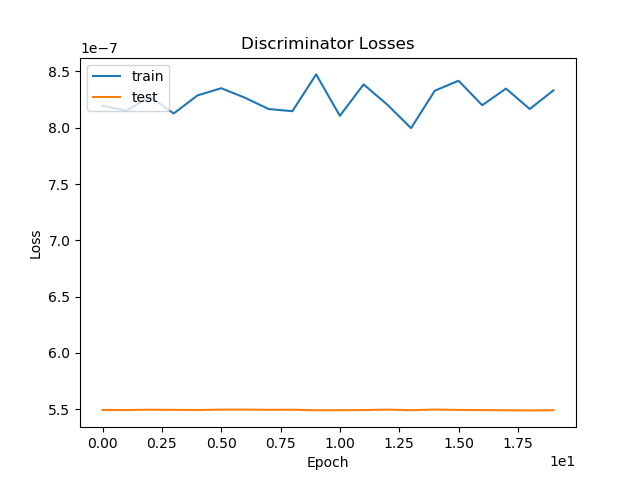
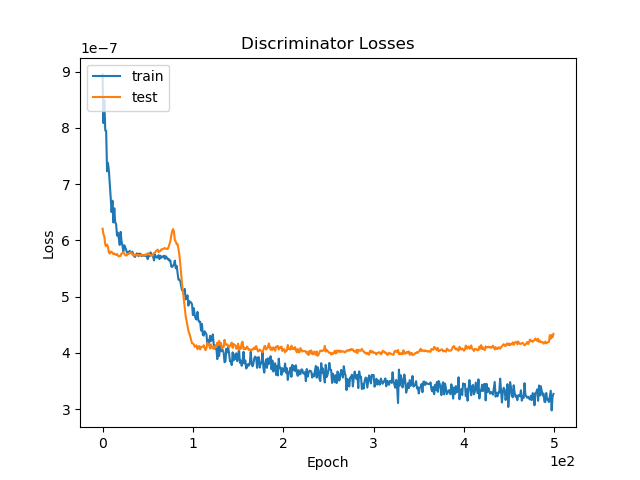
Updated code

diff --git a/Adam_tZq/Adam_tZq.py b/Adam_tZq/Adam_tZq.py
@@ -51,14 +51,14 @@ class neuralNetworkEnvironment(object):
     def __init__(self, changing_parameter, epoch, Adam):
         #At the moment not may variables are passed to the class. You might want to change this
         #A list of more general settings
-        self.variables = np.array(["m_b_jf" ,"eta_jf", "eta_jr", "pT_Z", "DeltaRMin", "q_lW", "pT_jr", "pT_jf", "eta_lW", "eta_Z", "pT_lW", "pT_W"]) #BAD!: "m_top", "mT_W"
+        self.variables = np.array([ "mT_W", "m_b_jf" ,"eta_jf", "eta_jr", "pT_Z", "DeltaRMin", "q_lW", "pT_jr", "pT_jf", "eta_lW", "eta_Z", "pT_lW", "pT_W"]) #BAD!"m_top",: 
         #["pt_lep1", "eta_lep1", "pt_lep2", "eta_lep2", "E_lep1", "E_lep2", "m_met", "E_jet1", "pt_lep3", "mass_jet2", "m_sumet", "pt_jet1", "E_lep2"]
         #The seed is used to make sure that both the events and the labels are shuffeled the same way because they are not inherently connected.
         self.seed = 193
         #All information necessary for the input
         #The exact data and targets are set later
-        self.input_signal_path = "/cephfs/user/s6taholm/tHq/run/testVar_fix/test_tZe.root"
-        self.input_background_path = "/cephfs/user/s6taholm/tHq/run/testVar_fix/diboson_e.root"
+        self.input_signal_path = "/cephfs/user/s6taholm/tHq/run/out/halloween_tZqFixed/tZq/mc16a.412063.aMCPy8EG_tllq_nf4.FS.nominal.root"
+        self.input_background_path = "/cephfs/user/s6taholm/tHq/run/out/halloween_tZqFixed/singleTop/mc16a.410646.PhPy8EG_Wt_DR_t.FS.nominal.root"
         self.signal_sample = "tHqLoop_nominal;1"
         self.background_sample = "tHqLoop_nominal;1"
         self.signal_tree = ur.open(self.input_signal_path)[self.signal_sample]
@@ -81,18 +81,18 @@ class neuralNetworkEnvironment(object):
         self.discriminator_epochs = epoch
         self.batchSize = 512
         #Setup of the networks, nodes and layers
-        self.discriminator_layers = 10
-        self.discriminator_nodes = 256
+        self.discriminator_layers = 12
+        self.discriminator_nodes = 128
         #Setup of the networks, loss and optimisation   decay=1e-2,
         if Adam:
             self.discriminator_optimizer = keras.optimizers.adam(lr=0.001, beta_1=0.9, beta_2=0.999, epsilon=1e-8, decay = 1e-6, clipnorm = 0, clipvalue = 0.005)  #, amsgrad = FALSE
         else:
-            self.discriminator_optimizer = SGD(lr = 0.1, momentum = 0.5,  nesterov=False)
+            self.discriminator_optimizer = SGD(lr = 0.1, momentum = 0.5)
 
-        self.discriminator_dropout = 0.4
+        self.discriminator_dropout = 0.6
         self.discriminator_loss = binary_crossentropy
 
-        self.validation_fraction = 0.15
+        self.validation_fraction = 0.8
         
         #The following set of variables is used to evaluate the result
         #fpr_test = false positive rate, tpr_test = true positive rate
@@ -262,7 +262,7 @@ class neuralNetworkEnvironment(object):
 
     def plotAccuracy_multi(self, iterations, data_acc_array):
         for i in range(iterations):
-            plt.plot(data_acc_array[i], label=("Adam=", i))
+            plt.plot(data_acc_array[i], label=("Lr=", 0.1+0.01*i))
         plt.title('model accuracy')
         plt.ylabel('accuracy')
         plt.xlabel('epoch')
@@ -274,7 +274,7 @@ class neuralNetworkEnvironment(object):
 
     def plotloss_multi(self, iterations, data_loss_array):
         for i in range(iterations):
-            plt.plot(data_loss_array[i], label=("Adam=", i))
+            plt.plot(data_loss_array[i], label=("Lr=", 0.1+0.01*i))
         plt.title('loss')
         plt.ylabel('Loss')
         plt.xlabel('Epoch')
@@ -332,9 +332,9 @@ def train_AdamVsSGD(epoch):
     ##Trains iterations times. The data is saved. The Variable j is changing, so that different things can be tried out (e.g. learning rate*j)
     for j in range(2):
         if j==0:
-            first_training = neuralNetworkEnvironment(j, epoch, True)
+            first_training = neuralNetworkEnvironment(1, epoch, True)
         if j==1:
-            first_training = neuralNetworkEnvironment(j, epoch, False)
+            first_training = neuralNetworkEnvironment(1, epoch, False)
         first_training.initialize_sample()
         first_training.buildDiscriminator()
         first_training.trainDiscriminator()
@@ -345,9 +345,9 @@ def train_AdamVsSGD(epoch):
     first_training.plotAccuracy_multi(2, data_acc_array)
 
 
-#train_multi(10, 100, True)
-train_single(20, False)
-#train_AdamVsSGD(20)
+#train_multi(10, 10, False)
+train_single(10, False)
+#train_AdamVsSGD(10)
 
 
 
